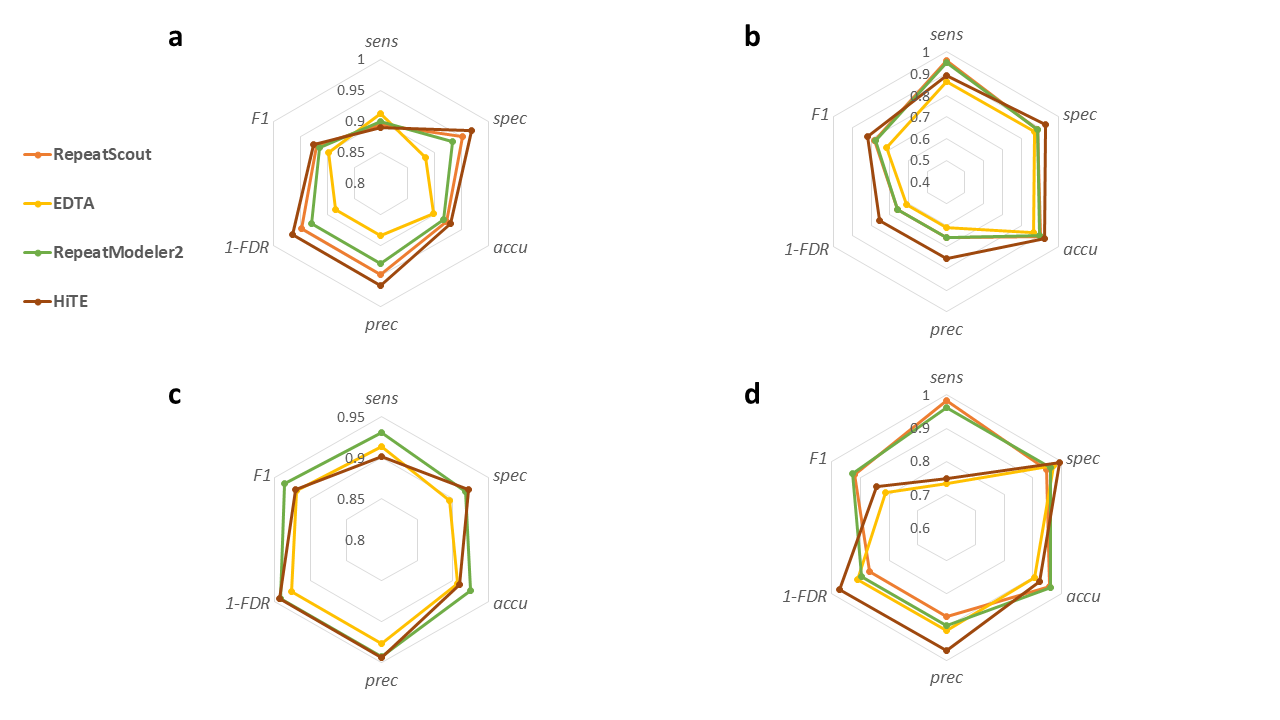
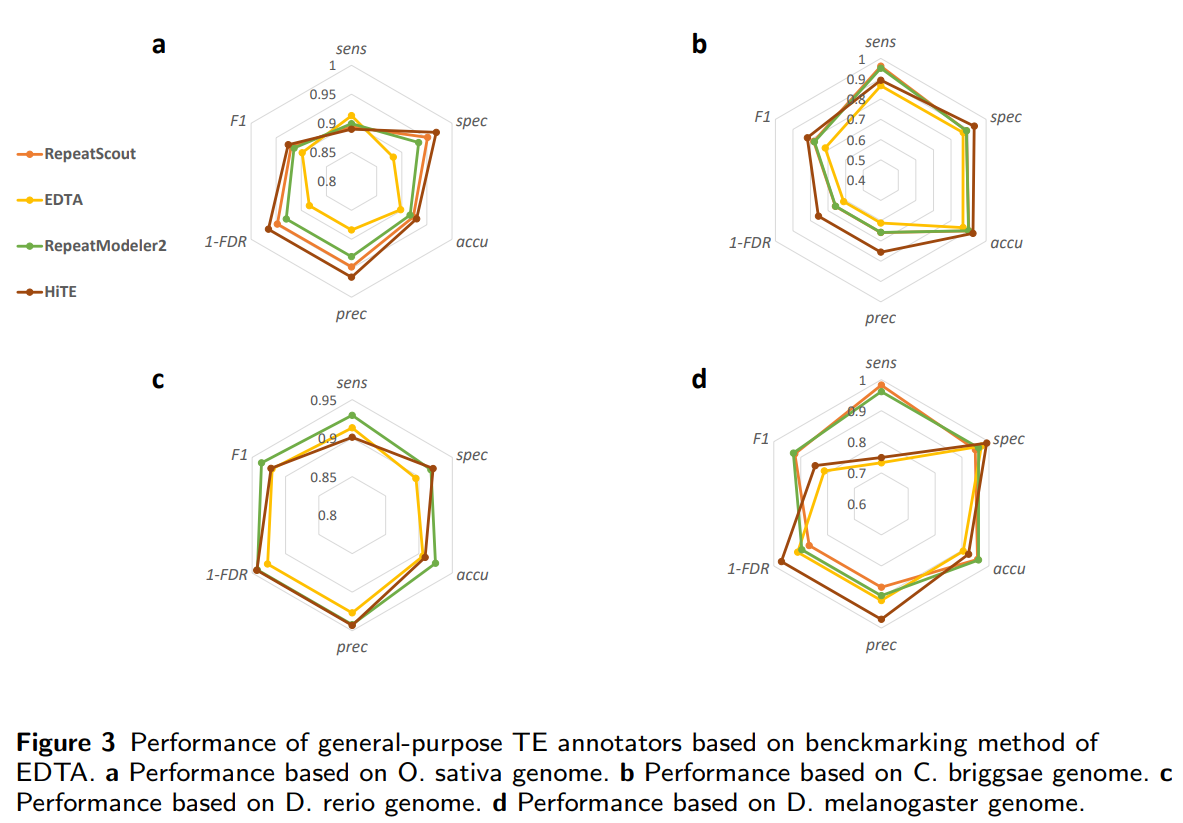
update

diff --git a/ReferenceMode/configure.py b/ReferenceMode/configure.py
@@ -137,7 +137,7 @@ if __name__ == '__main__':
     modify_RepModel(RepModelConfig_path, repeatmasker_home, rmblast_home, trf_program)
 
     # 3. add executable
-    os.system('chmod +x ' + repeatclassifier_path)
+    os.system('cd ' + os.getcwd() + '/tools && chmod +x ./*')
 
     #print('Start set REPCLASS...')
     # 1. set repclass.conf

diff --git a/README.md b/README.md
@@ -3,9 +3,9 @@
 
 
 ## Getting started
-Clone the [latest release](https://github.com/yangao07/TideHunter/releases):
+<!-- Clone the [latest release](https://github.com/yangao07/TideHunter/releases): -->
 ```
-git clone https://github.com/BioinformaticsCSU/HiTE.git
+git clone https://github.com/CSU-KangHu/HiTE.git
 ```
 ## Table of Contents
 
@@ -19,21 +19,25 @@ git clone https://github.com/BioinformaticsCSU/HiTE.git
   - [Configuring dependencies](#configure)
 - [Getting started with toy example in `demo`](#start)
 - [Commands and options](#cmd)
-- [Input](#input)
-- [Output](#output)
+- [Input](#inputs)
+- [Output](#outputs)
   - [Genome annotation information](#repeatmasker_annotation_info)
 - [Contact](#contact)
 
 ## <a name="introduction"></a>Introduction
-HiTE is an efficient TE annotation tool for genome assemblies based on the masking of repeated kmers.
+We have developed an ensemble method for high-precision TE annotation, known as **HiTE**, 
+which has undergone extensive benchmarking and proven to be the best TE annotation tool available. 
+HiTE achieved the highest precision and restored the most gold standard TE models based on four model species: 
+Oryza sativa, Caenorhabditis briggsae, Drosophila melanogaster, and Danio rerio. Moreover, HiTE can discover 
+novel TEs with low copy numbers that are not included in known libraries.
 
-HiTE offers a more **comprehensive** ability to annotate TEs and achieves remarkable efficiency. e.g., more than **21** times faster than RepeatModeler2 in the rice genome. It can serve as a novel solution to the existing methods to promote TE annotation performance.
+### <a name="pipeline"></a>The workflow of HiTE
+![输入图片说明](pic/Framework.png)
 
-### <a name="pipeline"></a>Pipeline of HiTE
-![输入图片说明](pic/Framework_1.png) 
+### <a name="cover_genome"></a>Performance of general-purpose TE annotators based on benckmarking method of RepeatModeler2 and EDTA. 
+![输入图片说明](pic/RM2_results.png)
 
-### <a name="cover_genome"></a>Genome coverage by each major subclass 
-![输入图片说明](pic/cover_genome_1.png)
+![输入图片说明](pic/EDTA_results.png)
 
 ## <a name="install"></a>Installation
 HiTE requires python3, please ensure you run HiTE with python3.
@@ -58,10 +62,6 @@ Install the latest release of LTR_retriever
 from the [LTR_retriever Github page](https://github.com/oushujun/LTR_retriever).
 Install [LTRharvest](http://genometools.org/pub/binary_distributions/) and [LTR_FINDER_parallel](https://github.com/oushujun/LTR_FINDER_parallel).
 
-记得chmod +x tools_dir里的所有工具
-
-运行成功，记得check每个阶段的文件是否存在。
-
 ### <a name="configure"></a>Configuring dependencies
 ```
 cd /your_path_to/HiTE/ReferenceMode
@@ -85,54 +85,61 @@ to validate all configurations.
 
 ## <a name="cmd"></a>Commands and options
 ```
-python main.py $genome_assembly $alias_name
+The simplest command:
+python3 main.py -g $genome_assembly -a $alias_name -o $output_dir
 
-usage: main.py [-h] [-k kmer size] [-t thread num] [-s sensitive mode]
-               [--fault_tolerant_bases fault_tolerant_bases] [-o output dir]
-               [--min_ltr_complete_len min_ltr_complete_len]
-               [--max_ltr_complete_len max_ltr_complete_len]
-               [--min_ltr_direct_repeat_len min_ltr_direct_repeat_len]
-               [--max_ltr_direct_repeat_len max_ltr_direct_repeat_len]
-               [--min_tir_complete_len min_tir_complete_len]
-               [--max_tir_complete_len max_tir_complete_len]
-               [--min_tir_direct_repeat_len min_tir_direct_repeat_len]
-               [--max_tir_direct_repeat_len max_tir_direct_repeat_len]
-               [--long_repeat_threshold long_repeat_threshold]
-               Genome assembly alias name
+Most frequently used commands:
+python3 main.py -g $genome_assembly -a $alias_name -o $output_dir -t 40 --chunk_size 400 --plant 0 --recover 1
 
-run HiTE...
+usage: main.py [-h] [-g Genome assembly] [-k kmer size] [-t thread num]
+               [-a alias name] [--fault_tolerant_bases fault_tolerant_bases]
+               [--fixed_extend_base_threshold fixed_extend_base_threshold]
+               [--chunk_size chunk_size] [--freq_threshold freq_threshold]
+               [--tandem_region_cutoff tandem_region_cutoff]
+               [--max_repeat_len max_repeat_len] [--flanking_len flanking_len]
+               [--plant is_plant] [--remove_nested remove_nested]
+               [--global_flanking_filter global_flanking_filter]
+               [--recover recover] [-o output dir]
 
-positional arguments:
-  Genome assembly       input genome assembly path
-  alias name            input alias name
+########################## HiTE, version 1.0.1 ##########################
 
 optional arguments:
   -h, --help            show this help message and exit
+  -g Genome assembly    input genome assembly path
   -k kmer size          input kmer size, default = [ 31 ]
-  -t thread num         input thread num
-  -s sensitive mode     sensitive mode, default = [ 0 ]
+  -t thread num         input thread num, default = [ 40 ]
+  -a alias name         input alias name
   --fault_tolerant_bases fault_tolerant_bases
                         the base number of fault tolerant in repeated kmers
-                        masking, default = [ 50 ]
+                        masking, default = [ 200 ]
+  --fixed_extend_base_threshold fixed_extend_base_threshold
+                        the base number of extend base, default = [ 1000 ]
+  --chunk_size chunk_size
+                        the chunk size of large genome, default = [ 200 MB ]
+  --freq_threshold freq_threshold
+                        the frequency threshold of kmer, default = [ 2 ]
+  --tandem_region_cutoff tandem_region_cutoff
+                        Cutoff of the raw masked repeat regarded as tandem
+                        region, default = [ 0.5 ]
+  --max_repeat_len max_repeat_len
+                        the maximum length of repeat, default = [ 30000 ]
+  --flanking_len flanking_len
+                        the flanking length of repeat to find the true
+                        boundary, default = [ 50 ]
+  --plant is_plant      is it a plant genome, 1: true, 0: false. default = [ 1
+                        ]
+  --remove_nested remove_nested
+                        Whether to clear the nested TE, 1: true, 0: false.
+                        default = [ 1 ]
+  --global_flanking_filter global_flanking_filter
+                        Whether to filter false positives by global flanking
+                        alignment, significantly reduce false positives but
+                        require more memory, especially when inputting a large
+                        genome. 1: true (require more memory), 0: false.
+                        default = [ 1 ]
+  --recover recover     Whether to enable recovery mode to avoid repeated
+                        calculations, 1: true, 0: false. default = [ 0 ]
   -o output dir         output dir
-  --min_ltr_complete_len min_ltr_complete_len
-                        Minimum complete LTR length, default = [ 400 ]
-  --max_ltr_complete_len max_ltr_complete_len
-                        Maximum complete LTR length, default = [ 22000 ]
-  --min_ltr_direct_repeat_len min_ltr_direct_repeat_len
-                        Minimum LTR direct repeat length, default = [ 100 ]
-  --max_ltr_direct_repeat_len max_ltr_direct_repeat_len
-                        Maximum LTR direct repeat length, default = [ 6000 ]
-  --min_tir_complete_len min_tir_complete_len
-                        Minimum complete TIR length, default = [ 1000 ]
-  --max_tir_complete_len max_tir_complete_len
-                        Maximum complete TIR length, default = [ 40000 ]
-  --min_tir_direct_repeat_len min_tir_direct_repeat_len
-                        Minimum TIR direct repeat length, default = [ 0 ]
-  --max_tir_direct_repeat_len max_tir_direct_repeat_len
-                        Maximum TIR direct repeat length, default = [ 1000 ]
-  --long_repeat_threshold long_repeat_threshold
-                        Threshold of long repeat, default = [ 2000 ]
 ```
 
 ## <a name="start"></a>Getting started with toy example in `demo`
@@ -141,15 +148,29 @@ cd /your_path_to/HiTE/ReferenceMode
 python3 main.py -g ../demo/genome.fa -a test -t 48 -o ../demo/test --plant 0
 ```
 
-## <a name="input"></a>Input
+## <a name="inputs"></a>Inputs
 HiTE works with genome assemblies in FASTA, FA, and FNA formats.
 
-## <a name="output"></a>Output
-HiTE outputs an annotated consensus TE library in FASTA format.
+## <a name="outputs"></a>Outputs
+HiTE outputs many temporary files, which allow you to quickly restore the previous running 
+state in case of any accidents during the running process. To ensure that the pipeline completes successfully,
+you should check that the following files are generated:
 
-### <a name="repeatmasker_annotation_info"></a>Genome annotation information
-The annotated TE library is further input into RepeatMasker for annotating the whole genome, and the annotation information for the genome is also output.
+* repeats_*.fa. `(Note that "*" represents the number of blocks that the genome is divided into. 
+For example, if the genome input is 400 MB and the chunk size input is set to 100, then you can 
+find repeats_0.fa, repeats_1.fa, repeats_2.fa, and repeats_3.fa in your output directory. 
+The following cases are similar.)`
+* longest_repeats_*.fa.
+* confident_tir_*.fa
+* confident_helitron_*.fa
+* confident_other_*.fa
+* confident_ltr_cut.fa
+* confident_TE.cons.fa
+* confident_TE.cons.fa.final.classified
 
+### Importantly
+**confident_TE.cons.fa** and **confident_TE.cons.fa.final.classified** are the unclassified and classified TE models generated by HiTE, respectively.
+**confident_TE.cons.fa.final.classified** can be used directly as TE library in RepeatMasker by `-lib`.
 
 
 ## <a name="contact"></a>Contact
